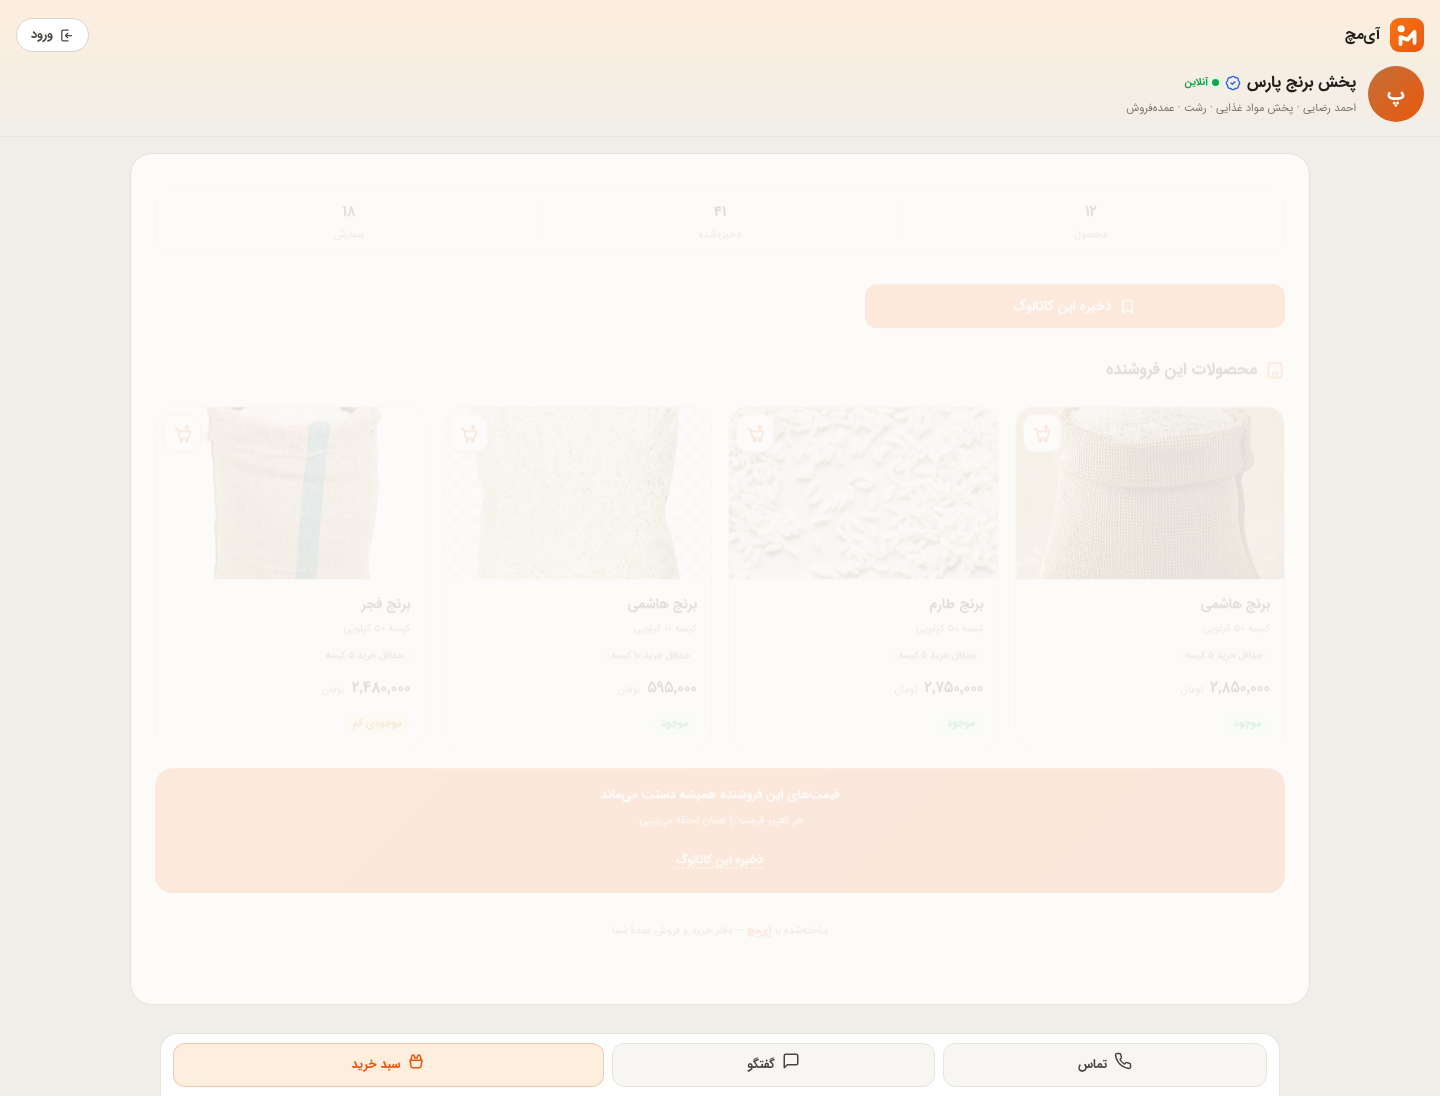
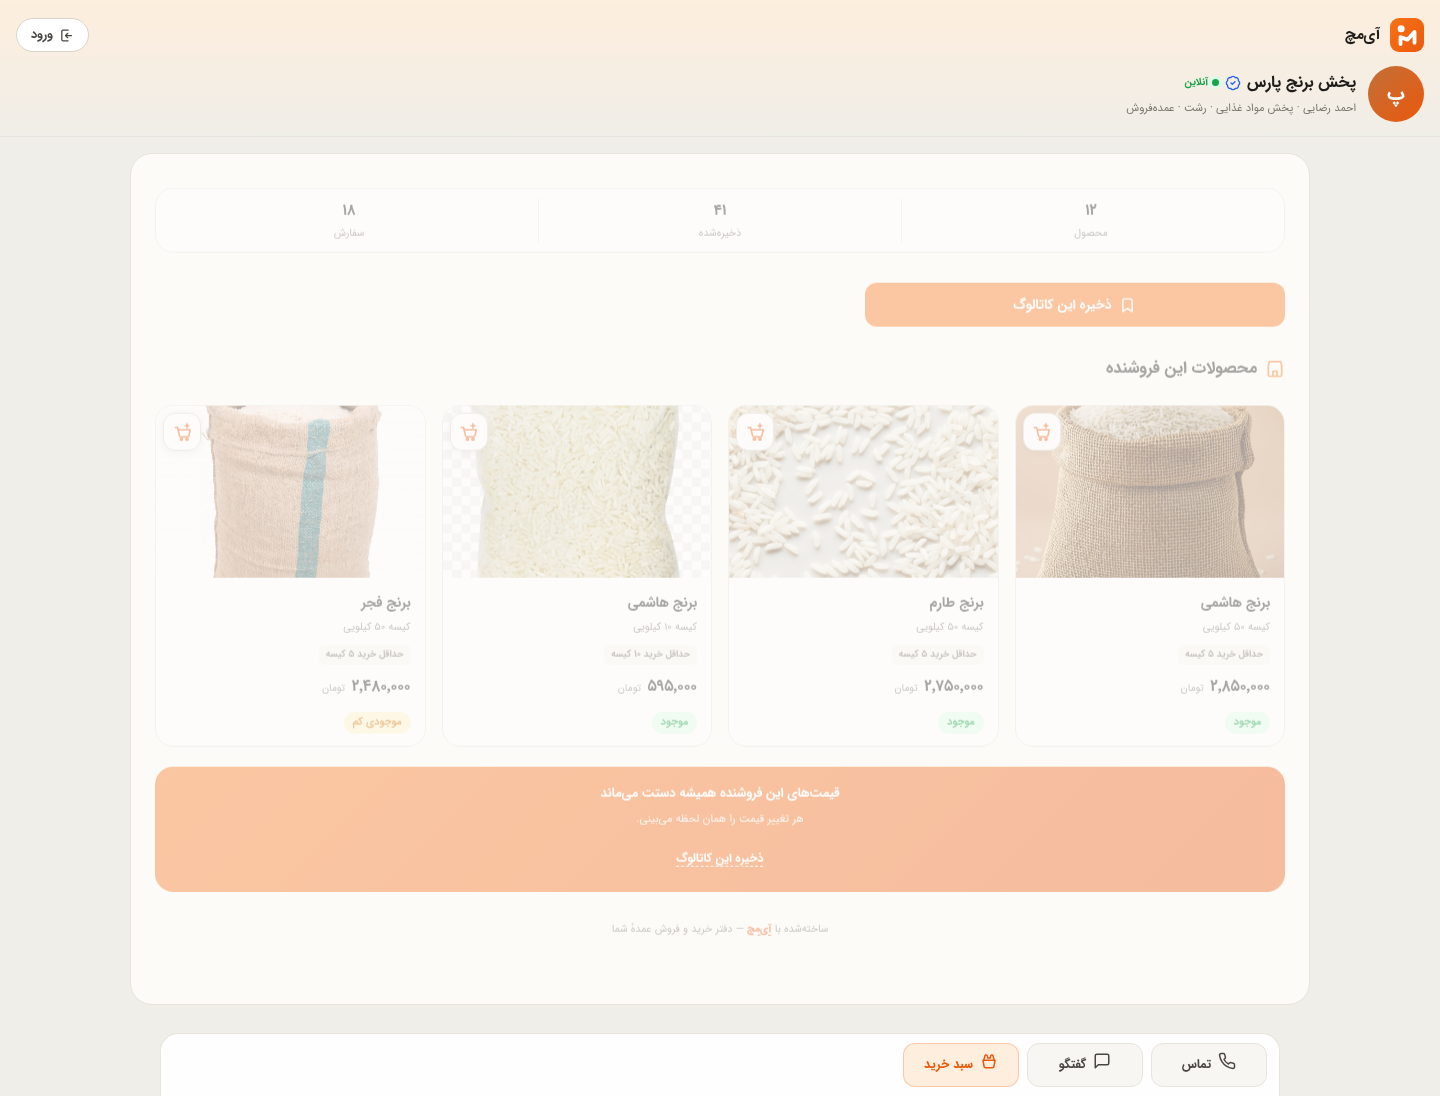
feat(FD-40b): نوارهای اقدام بیرون از کاغذ — pv-bar شناور + gbar بهپهنای-محتوا + اشتراک ۳ستونه + مخاطبین کارتدار (ادامهٔ حکم مالک: تکتک فرمها طراحی شوند) · pv-bar کالا: دکمههای ۱۳۱۶px/نوار تمامعرض → قرص شناور ۱۱۴۰ + قاب + سایه + ۲۸px فاصله + دکمه ۱۶۸px راستچین (درس: absolute پاوهٔ کاغذ نمیشود — شناور

diff --git a/prototypes/imach-final-design/style.css b/prototypes/imach-final-design/style.css
@@ -6236,4 +6236,91 @@ textarea.input { height: auto; min-height: 88px; padding: 11px 13px; display: bl
 
     /* ۴) لینکهای اکتشافیِ تمامعرض (شتابدهی در امتیاز فعالیت) */
     #phone[data-dk="1"] .dk-screen .accel-link { max-width: 560px; }
+
+    /* ═════════════════════════════════════════════════════════════
+       FD-40b — ترمیم صفحهبهصفحهٔ نوارهای اقدامِ بیرون از کاغذ
+       ─────────────────────────────────────────────────────────
+       ▸ pv-bar (کالا — تماس/گفتگو/ذخیره/افزودن به سبد): در دسکتاپ
+         همعرض و چسبیده به کاغذِ بالا مثل پاوهٔ آن + دکمههای
+         بهپهنای-محتوا (قبلاً ۱۳۱۶px با flex:1).
+       ▸ gbar (کاتالوگ عمومی/لیست خرید مهمان): دکمههای flex:1 در
+         عرض ۱۱۲۰ یعنی دکمههای ۴۳۱px — به پهنای محتوا از راست.
+       ▸ اشتراک کاتالوگ: شش پیامرسانِ ردیفی → گرید ۳ستونه؛
+         CTA جستجو با سقف ۶۴۰.
+       ▸ مخاطبین: ردیفهای مویی → گرید دوسطونهٔ کارتدار (همزبانِ
+         دفتر مشتریان/تأمینکنندگان)؛ نوار انتخابِ چندنفره →
+         شناورِ تهِ پنجره با پهنای ظرف.
+       ═════════════════════════════════════════════════════════════ */
+
+    /* ۱) نوار CTA کالا — نوار اقدامِ شناور (الگوی دسکتاپ مدرن):
+          چون absolute به تهِ بخش چسبیده، پیوندِ بصری با کاغذ تضمین
+          نمیشود؛ در عوض: قرصِ شناور با قاب کامل + سایه + ۲۸px فاصله */
+    #phone[data-dk="1"] #s-product-view .pv-bar {
+        left: 50%; right: auto;
+        transform: translateX(-50%);
+        width: calc(100% - 36px);
+        max-width: 1140px;
+        margin-bottom: 28px;
+        border: 1px solid var(--border);
+        border-radius: 18px;
+        box-shadow: 0 18px 44px rgba(31,29,26,.14);
+        background: var(--bg);
+        backdrop-filter: none;
+        -webkit-backdrop-filter: none;
+        justify-content: flex-start;
+        padding: 12px 20px 14px;
+        box-sizing: border-box;
+    }
+    #phone[data-dk="1"] #s-product-view .pv-bar .btn {
+        flex: 0 0 auto !important;
+        width: auto !important;
+        min-width: 148px;
+    }
+
+    /* ۲) نوار مهمان — دکمههای بهپهنای-محتوا از راست */
+    #phone[data-dk="1"] .dk-screen .gbar { justify-content: flex-start; }
+    #phone[data-dk="1"] .dk-screen .gbar .gbar-btn { flex: 0 0 auto; min-width: 116px; }
+
+    /* ۳) اشتراک کاتالوگ — پیامرسانها کنارِ هم؛ جستجو با سقف */
+    #phone[data-dk="1"] #s-catalog-share .body > .rows {
+        display: grid;
+        grid-template-columns: repeat(3, minmax(0, 1fr));
+        gap: 12px;
+    }
+    #phone[data-dk="1"] #s-catalog-share .search-cta { max-width: 640px; }
+
+    /* ۴) مخاطبین — گرید دوسطونهٔ کارتدار + نوار pick شناور */
+    #phone[data-dk="1"] #s-contacts .contact-list {
+        display: grid;
+        grid-template-columns: repeat(auto-fill, minmax(340px, 1fr));
+        gap: 12px;
+        align-items: stretch;
+    }
+    #phone[data-dk="1"] #s-contacts .contact-row {
+        border: 1px solid var(--border);
+        border-radius: 14px;
+        background: var(--surface);
+        padding: 12px 14px;
+        transition: border-color .16s, box-shadow .16s;
+    }
+    #phone[data-dk="1"] #s-contacts .contact-row:hover {
+        border-color: var(--border-2);
+        box-shadow: 0 10px 26px rgba(31,29,26,.08);
+    }
+    #phone[data-dk="1"] #s-contacts .pick-bar {
+        position: fixed;
+        left: 50%; right: auto; bottom: 0;
+        transform: translateX(-50%);
+        width: min(760px, calc(100vw - 36px));
+        border: 1px solid var(--border);
+        border-bottom: 0;
+        border-radius: 18px 18px 0 0;
+        box-shadow: 0 -10px 30px rgba(31,29,26,.10);
+        padding: 12px 20px 16px;
+    }
+    #phone[data-dk="1"] #s-contacts .pick-bar .btn {
+        flex: 0 0 auto !important;
+        width: auto !important;
+        min-width: 148px;
+    }
 }

diff --git a/prototypes/imach-final-design/docs/implementation-notes.md b/prototypes/imach-final-design/docs/implementation-notes.md
@@ -1278,3 +1278,4 @@ items[] گرفت (مثل rfqsIn) تا سفارش از پیشنهاد ساخته 
 | FD-37/38/39 | **سند فروش** (بریف کامل مالک): فاکتور رسمی + برگهٔ ارسال — کارت «اسناد سفارش» در ۱۰/۳۹ (وضعیتمحور: new=هیچ · accepted=فاکتور+برگه قفل · sent=هر دو · delivered=آرشیو) + دکمهٔ هدر فاکتور + بخش «سند فروش» ۳۶ (سوییچ/شماره مالیاتی/یادداشت → business.invoiceEnabled/taxId/invoiceNote) + قالبهای A4 تازه (۴۰ فاکتور / ۴۱ برگهٔ ارسال: موبایل صفحه، دسکتاپ مودال dk-doc، چاپ @media print فقط .doc-paper، MVP=window.print) + orderAccept/orderMarkSent صدور+اعلان + سه آیکون sprite · **فرم افزودن سهگامی** (حکم مالک): گام ۱ فقط کالا (محصولات مرجع به گام ۲) + نوار پیشرفت غیرکلیکی #add-progress (نقطهها رویِ خط، done=تیک، pointer-events:none — درس VLM: قرص+هاله=«سه دکمه») + فلش بازگشت هر گام (#add-change-type بازطرح + #add-back-2) + حالت خالی ادغامشده «اولین محصول را شما ثبت کنید» + دکمهٔ پرسشی «محصول شما در این لیست نیست؟» · **سایدبار کاتالوگ دسکتاپ** (حکم مالک): dkCatalog → cat-main + aside.cat-side «ابزارهای کاتالوگ» (چهار دکمه با id ها → چهار لینک چسبان؛ موبایل ۲×۲ دستنخورده) | `c865113` |
 | FD-39v2 | **سایدبار کاتالوگ از نو — مثل سایدبار اصلی** (بازخورد مالک روی پیادهٔ اول: «سایدبار یعنی شبیه سایدبارِ اصلی سیستم در سمتِ راست صفحه — نه منوی بازِ داخلِ محتوای صفحه. اینشکلی و اینقدر مسخره… اینو سریع درست کن.»): پیادهٔ اول مردود — کارتِ شناورِ ۲۱۶ در ستونِ چپِ بادی (قاب+شعاع+سایه+سربرگ «ابزارهای کاتالوگ») مثل منوی باز دیده میشد · v۲ = همان پوستهٔ اپ (dk-desk): aside.cat-side با کلاس dk-side → دقیقاً همهندسهٔ سایدبار اصلی (راستِ صفحه ۲۵۶ · تمامقد ۱۰۰vh · چسبان · تخت با خطِ inline-end) + همساختار (واژهنشان dks-mark دکان + «کاتالوک من» · چهار لینک بهقالبِ تبهای اصلی: ردیف تخت ۴۶ + آیکون لخت ۲۰ + برچسب ۱۳ · چیپ کارر dk-user پایین) — «اختصاصی» فقط در محتواست نه در جایگیری · سابهدر+بدنه+شیتها → dk-desk-main (الگوی shellify) · حالت ویژه سبز روی ردیف ناوبری ماند · موبایل ۲×۲ و مهمان ۳۱ (بدون چهار دکمه → بدون پوسته) دستنخورده | این کامیت |
 | FD-40a | **نظام دکمههای دسکتاپ** (حکم مالک: «دکمههای تمامصفحهٔ موبایل در دسکتاپ بیشازحد دراز و زشتاند — نمونه فوتر s-sell-order-view؛ در خیلی از فرمهاست. تکتک فرمها باید طراحی شوند»): آدیت عددی DOM هر ۴۲ صفحه در ۱۴۴۰ (getComputedStyle/rect — ۱۶ دکمهٔ >۳۰۰px شناسایی) · **فیکس ریشهای moveSubmit**: نوار مخفی هم جابهجا میشود (صفحات پویای ۱۰/۳۹ نوار را در show-hook بعد از apply نمایان میکنند؛ نوارِ نجاتنیافته ۱۰۰vw به کف پنجره چسبیده بود — تعمیم درس FD-36) · بلوک FD-40 در انتهای لایهٔ دسکتاپ: dk-inflow → دکمههای بهپهنای-محتوا (خنثیسازی !important استایلهای inline:flex · کف ۱۱۶ · سقف ۴۲۰ · nowrap · راستچین) · btn-block بادی → سقف min(420,100%) (استثنا: لندینگ/ورود/ثبتنام/dk-add) · blp-act → auto · od-btns → ردیف منعطف · accel-link → سقف ۵۶۰ · نتیجه: ۱۶→۰ دکمهٔ پهن (۱۶-sell-add گام۳ تمامعرضِ عمدی ماند — طرح FD-36 مالک) | این کامیت |
+| FD-40b | **ترمیم نوارهای اقدامِ بیرون از کاغذ** (ادامهٔ FD-40a): pv-bar کالا (۳۷) — دکمههای ۱۳۱۶px + نوارِ absolute تمامعرض → نوار اقدام شناور ۱۱۴۰ با قاب/سایه/۲۸px فاصله + دکمههای بهپهنای-محتوا (الگوی نوار شناور دسکتاپ؛ درس: absolute به «پاوهٔ کاغذ» نمیرسد) · gbar مهمان (۳۱/۳۲) — سه دکمهٔ flex:1 در ۱۱۲۰ (۴۳۱px!) → ۱۱۶px راستچین · اشتراک کاتالوگ (۰۶) — شش پیامرسان ردیفی → گرید ۳ستونه + search-cta سقف ۶۴۰ · مخاطبین (۰۷) — ردیفهای مویی → گرید دوسطونهٔ کارتدار همزبان دفاتر + نوار pick → شناور ۷۶۰ وسچ | این کامیت |

diff --git a/prototypes/imach-final-design/qa/README.md b/prototypes/imach-final-design/qa/README.md
@@ -417,3 +417,21 @@ fd18 50/50 · fd20 16/16 · fd24 33/33 · smoke 41/41.
 - سهمیهٔ VLM در این نشست نا可信 بود (دو توصیف متناقض + خوانش متن دکمههای ناموجود) — درس تکراری پروژه: **DOM عددی حکم نهایی است**؛ آدیت دکمهٔ پهن با getBoundingClientRect دقیقتر و ارزانتر از چشمِ مدل است
 - سرور QA باید پایدار باشد: nohup داخل سابشل با پایانِ فراخوان میمیرد → شکستهای زنجیرهای کاذب (94/6) که با سرور زنده 100/100 شد — پیش از قضاوت دربارهٔ رگرسیون، زیرساخت را اثبات کن
 - استایل inline (flex:.65/.8/1.35) موبایل را در دسکتاپ با `!important` در لایهٔ دسکتاپ خنثی کن — الگوی ثابتشدهٔ پروژه برای جابهجایی مود→دسکتاپ
+
+## FD-40b — ترمیم صفحهبهصفحهٔ نوارهای اقدامِ بیرون از کاغذ
+
+ادامهٔ حکم مالک FD-40a («تکتک فرمها باید طراحی شوند») — نوارهایی که sticky-bar نیستند و از قاعدهٔ عمومی جا مانده بودند:
+
+- **pv-bar (کالا ۳۷)**: دکمههای flex:1 تا ۱۳۱۶px میکشیدند و نوارِ absolute با عرض کامل به تهِ بخش چسبیده بود → نوار اقدامِ شناور (الگوی دسکتاپ مدرن): وسچ ۱۱۴۰ + قاب کامل + شعاع ۱۸ + سایه + ۲۸px فاصله از کف + دکمههای بهپهنای-محتوا (۱۶۸px) از راست
+- **gbar (کاتالوگ عمومی ۳۱ / لیست خرید مهمان ۳۲)**: سه دکمهٔ flex:1 در ظرف ۱۱۲۰ یعنی ۳۲۴/۳۲۴/۴۳۱px → ۱۱۶px هر یک، راستچین
+- **اشتراک کاتالوگ (۰۶)**: شش پیامرسانِ ردیفیِ ۱۰۷۰px → گرید ۳ستونه (۳۴۸px) · search-cta سقف ۶۴۰
+- **مخاطبین (۰۷)**: دوازده ردیف مویی ۱۰۱۶px → گرید auto-fill دوسطونهٔ کارتدار (۳۴۸×۷۶، هاور) همزبان دفاتر مشتریان/تأمینکنندگان · نوار pick (absolute تهِ قاب در موبایل) → شناورِ fixed وسچ ۷۶۰ با دکمهٔ ۱۴۸px
+- درس: نوارهای absolute در دسکتاپ «پاوهٔ کاغذ» نمیشوند (جایگیری نسبت به انتهای محتوا تضمین ندارد) — قرص شناور صادقتر است
+
+| اسکریپت | نتیجه |
+|---|---|
+| `fd28-qa.sh` | **102/102** |
+| `fd29-qa.sh` | **100/100** |
+| `fd28-smoke.sh` | **41/41** |
+| DOM وریفای | pv-bar ۱۳۱۶→۱۶۸ · gbar ۴۳۱→۱۱۶ · share rows ۳ستونه · contacts ۲-۳ستونه کارت · pick وسچ ۷۶۰ |
+| موبایل ۳۹۰ | contacts تکستونه ✓ · share ردیفی ✓ (شات ضمیمه qa40) |
